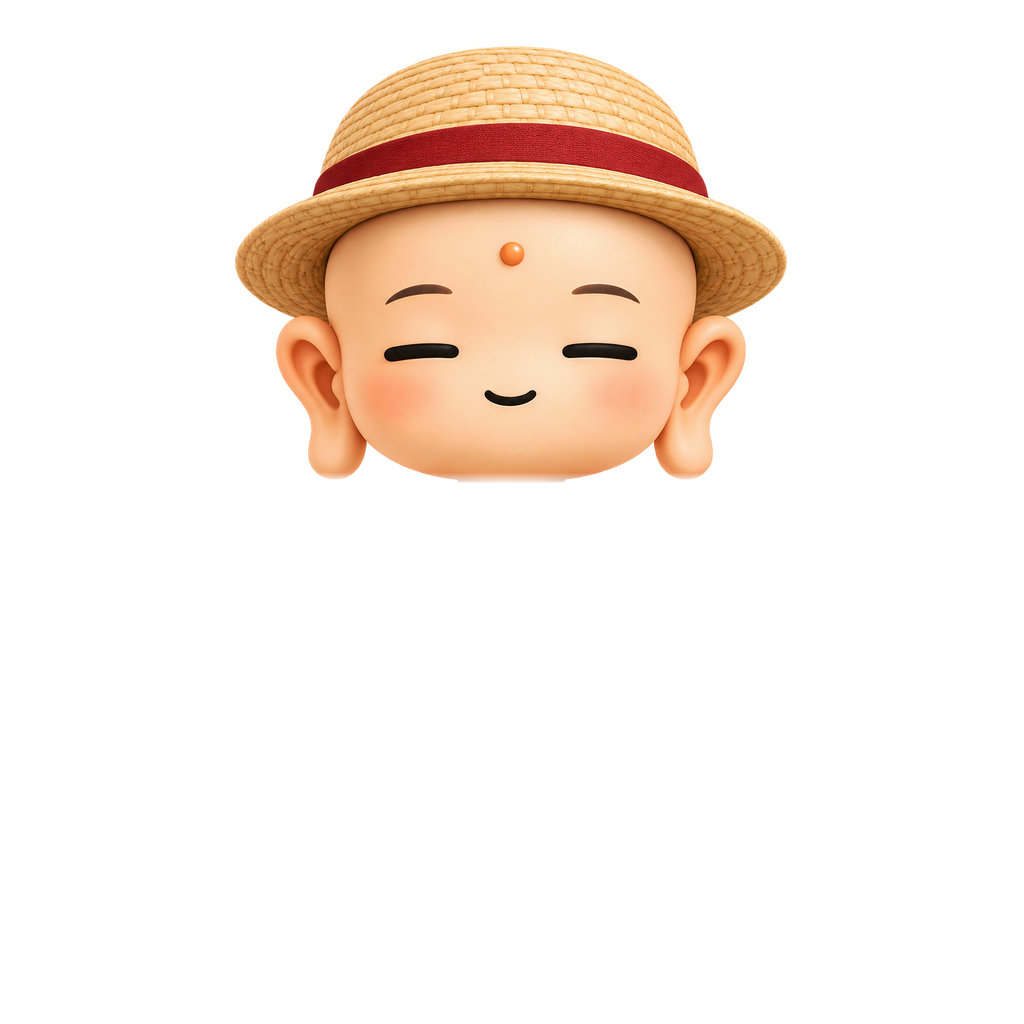
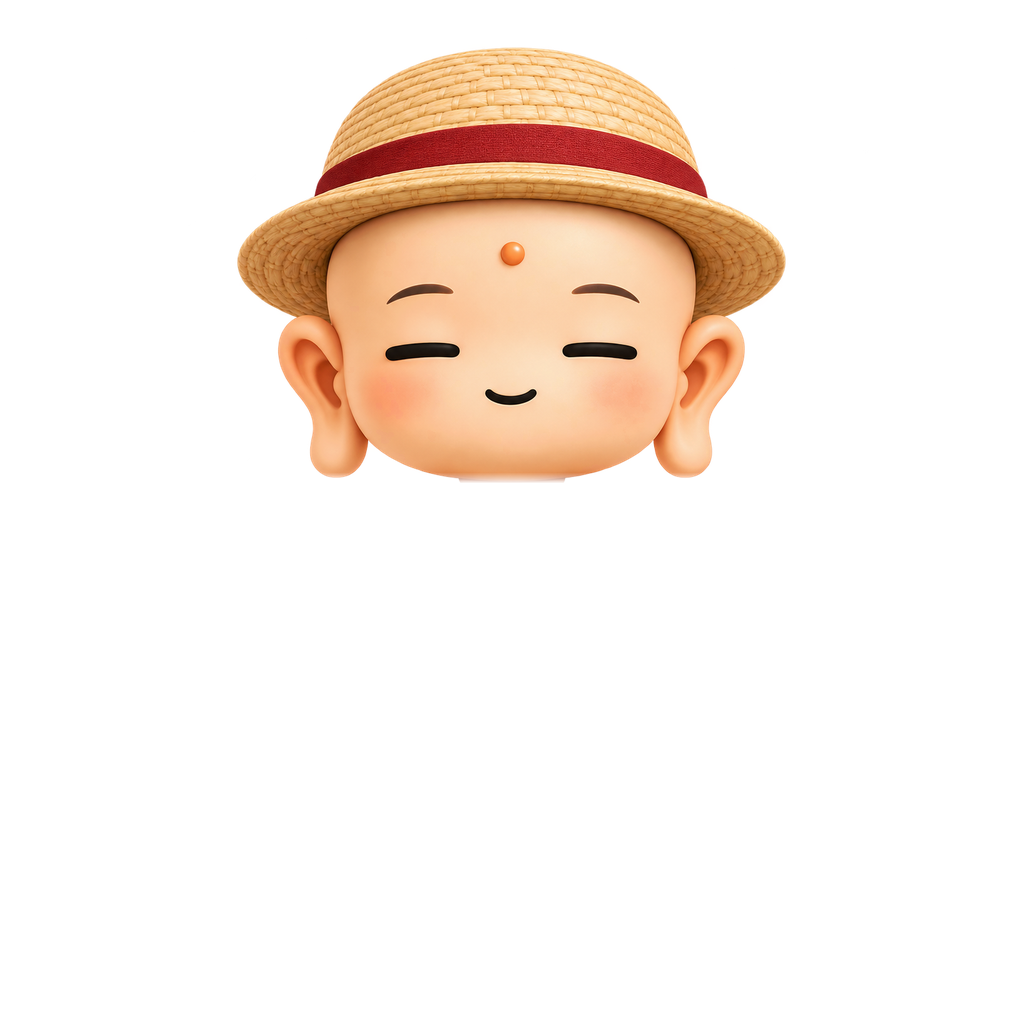
에셋 도구: 얼굴 위치 값을 재는 --measure 추가
head_*_face.png 를 베이스에 맞추는 FACE_FIT 값을 지금까지는 대화 중에
임시 스크립트로 쟀다. 다음 아이템 때도 같은 방법으로 잴 수 있게
build_avatar_assets.py 에 넣는다.

    python tools/build_avatar_assets.py --measure head_bamboo

재는 방법
- 눈: 위아래가 살색인 새까만 가로선. 나발처럼 어두운 머리칼은 위아래가
  살색이 아니라 빠지고, 입은 가운데 3분의 1을 버려서 뺀다. 선 가장자리는
  흐려서 8px 건너 살색을 본다
- 배율: 눈 높이에서 귀 끝~귀 끝 폭의 비로 시작
- 그 둘레(배율 ±0.02, 세로 ±16px)에서 베이스 민머리가 가장 덜 비치는
  값을 고르고, 400px 을 넘으면 다시 받으라고 알린다

FACE_FIT 교체
- 손으로 쟀던 값을 --measure 결과로 바꿨다. 차이는 배율 0.006 이내,
  위치 몇 px 이고 비침은 줄었다 (삿갓 169→99, 밀짚 16→10, 나발 67→62)
- 문서에 「값은 --measure 로 잰다」고 적기 위해 실제 값도 맞췄다

기타
- 두 스크립트의 출력을 UTF-8 로 내보내 Windows 터미널에서 한글이 깨지지
  않게 했다
- Imgs/ 는 건드리지 않았다 (빌드 전후 md5 동일)

diff --git a/tools/build_avatar_assets.py b/tools/build_avatar_assets.py
@@ -15,8 +15,15 @@ Imgs/ (납품 원본) → assets/avatar/ (앱에 나가는 것)
 
     python tools/build_avatar_assets.py
     python tools/make_avatar_thumbs.py    # 썸네일은 이 결과에서 다시 뽑는다
+
+새 얼굴이 들어오면 먼저 FACE_FIT 값을 잰다.
+
+    python tools/build_avatar_assets.py --measure head_bamboo
+
+전체 절차는 docs/부처님_리소스_파이프라인.md.
 """
 
+import sys
 from pathlib import Path
 
 from PIL import Image, ImageChops
@@ -36,14 +43,14 @@ NECK_Y = 478
 NECK_FEATHER = 6
 
 # head_*_face.png 를 베이스 좌표로 옮기는 값: (배율, 왼쪽, 위).
-# 두 눈의 가운데를 베이스 눈 가운데(510, 356)에 맞추고, 배율은 귀 끝에서
-# 귀 끝까지의 폭으로 정했다. 눈 사이로 재면 GPT 얼굴의 귀가 상대적으로
-# 작아져서 뒤의 베이스 귀·민머리가 비친다. 세로는 베이스 머리가 가장 덜
-# 비치는 자리로 몇 픽셀 올렸다.
+# --measure 로 잰다. 두 눈의 가운데를 베이스 눈 가운데에 맞추고, 배율은
+# 귀 끝에서 귀 끝까지의 폭에서 출발해 베이스 머리가 가장 덜 비치는 값을
+# 고른다. 눈 사이로 재면 GPT 얼굴의 귀가 상대적으로 작아져서 뒤의 베이스
+# 귀·민머리가 비친다.
 FACE_FIT = {
-    "head_bamboo": (0.62, 123, -96),
-    "head_straw": (0.63, 116, -78),
-    "head_nabal": (0.62, 123, -112),
+    "head_bamboo": (0.614, 126, -90),
+    "head_straw": (0.626, 119, -76),
+    "head_nabal": (0.625, 121, -116),
 }
 
 # 옮긴 얼굴 뒤로 베이스 민머리가 이만큼 넘게 비치면 정합이 틀린 것이다.
@@ -104,6 +111,107 @@ def fit_face(face: Image.Image, fit, base: Image.Image) -> Image.Image:
     return head, peek
 
 
+EDGE = 8
+
+
+def _is_dark(p) -> bool:
+    return p[3] > 200 and max(p[:3]) < 45
+
+
+def _is_skin(p) -> bool:
+    r, g, b, a = p
+    return a > 200 and r > 190 and g > 140 and r > b + 25
+
+
+def find_eyes(image: Image.Image):
+    """감은 두 눈의 가운데 좌표와 그 높이의 귀 끝~귀 끝 폭을 잰다.
+
+    눈은 위아래가 살색인 새까만 가로선이다. 나발처럼 어두운 머리칼은
+    위아래가 살색이 아니라서 빠진다. 입도 같은 조건에 걸리므로 가운데
+    3분의 1은 버리고 양쪽만 쓴다.
+    """
+    px = image.load()
+    width, height = image.size
+    marks = []
+    for y in range(1, height - 1):
+        for x in range(width):
+            if not _is_dark(px[x, y]):
+                continue
+            up = y
+            while up > 0 and _is_dark(px[x, up]):
+                up -= 1
+            down = y
+            while down < height - 1 and _is_dark(px[x, down]):
+                down += 1
+            # 선 가장자리는 흐려서 중간색이다. 몇 픽셀 건너서 살색을 본다.
+            above, below = max(0, up - EDGE), min(height - 1, down + EDGE)
+            if down - up < 60 and _is_skin(px[x, above]) and _is_skin(px[x, below]):
+                marks.append((x, y))
+    if not marks:
+        raise SystemExit("눈을 못 찾았다 — 감은 눈이 새까만 선인지 확인")
+
+    xs = [x for x, _ in marks]
+    left_edge, right_edge = min(xs), max(xs)
+    third = (right_edge - left_edge) / 3
+    left = [(x, y) for x, y in marks if x < left_edge + third]
+    right = [(x, y) for x, y in marks if x > right_edge - third]
+    if not left or not right:
+        raise SystemExit("두 눈이 갈라지지 않는다")
+
+    mean = lambda pts: (sum(p[0] for p in pts) / len(pts),
+                        sum(p[1] for p in pts) / len(pts))
+    (lx, ly), (rx, ry) = mean(left), mean(right)
+    eye_x, eye_y = (lx + rx) / 2, (ly + ry) / 2
+
+    row = [x for x in range(width) if px[x, round(eye_y)][3] > 128]
+    return (eye_x, eye_y), row[-1] - row[0]
+
+
+def peek_of(face: Image.Image, fit, under: Image.Image) -> int:
+    scale, left, top = fit
+    size = round(face.width * scale)
+    alpha = face.getchannel("A").resize((size, size), Image.Resampling.BILINEAR)
+    placed = Image.new("L", (CANVAS, CANVAS), 0)
+    placed.paste(alpha, (left, top))
+    placed = placed.point(lambda v: 255 if v > 128 else 0)
+    return ImageChops.subtract(under, placed).histogram()[255]
+
+
+def measure(name: str) -> None:
+    """head_*_face.png 의 FACE_FIT 값을 잰다."""
+    face = Image.open(SRC / f"{name}_face.png").convert("RGBA")
+    base = load("base_saffron")
+
+    (bx, by), base_span = find_eyes(base)
+    (fx, fy), face_span = find_eyes(face)
+    start = base_span / face_span
+    print(f"베이스 눈 ({bx:.0f}, {by:.0f}) 귀폭 {base_span}")
+    print(f"{name} 눈 ({fx:.0f}, {fy:.0f}) 귀폭 {face_span} → 배율 {start:.3f}")
+
+    under = base.getchannel("A").point(lambda v: 255 if v > 128 else 0)
+    under.paste(0, (0, NECK_Y - 8, CANVAS, CANVAS))
+
+    tried = []
+    for step in range(-4, 5):
+        scale = round(start + step * 0.005, 3)
+        left = round(bx - fx * scale)
+        for nudge in range(-16, 17, 2):
+            top = round(by - fy * scale) + nudge
+            fit = (scale, left, top)
+            tried.append((peek_of(face, fit, under), fit))
+    tried.sort()
+
+    print("비침이 적은 순:")
+    for peek, fit in tried[:3]:
+        print(f"  {fit}  비침 {peek}px")
+    best_peek, best = tried[0]
+    if best_peek > MAX_PEEK:
+        print("비침이 기준을 넘는다 — 얼굴이 베이스와 너무 다르다. 다시 받는다")
+    print()
+    print("FACE_FIT 에 넣을 값:")
+    print(f'    "{name}": {best},')
+
+
 def main() -> None:
     OUT.mkdir(parents=True, exist_ok=True)
 
@@ -133,4 +241,8 @@ def main() -> None:
 
 
 if __name__ == "__main__":
-    main()
+    sys.stdout.reconfigure(encoding="utf-8")
+    if len(sys.argv) == 3 and sys.argv[1] == "--measure":
+        measure(sys.argv[2])
+    else:
+        main()

diff --git a/tools/make_avatar_thumbs.py b/tools/make_avatar_thumbs.py
@@ -8,6 +8,7 @@ assets/avatar/thumbs/*.png (192×192)로 저장한다.
     python tools/make_avatar_thumbs.py
 """
 
+import sys
 from pathlib import Path
 
 from PIL import Image, ImageChops, ImageDraw, ImageFilter
@@ -197,4 +198,5 @@ def main() -> None:
 
 
 if __name__ == "__main__":
+    sys.stdout.reconfigure(encoding="utf-8")
     main()
